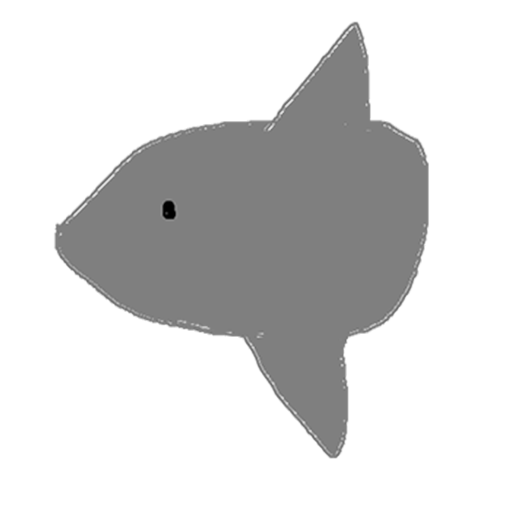
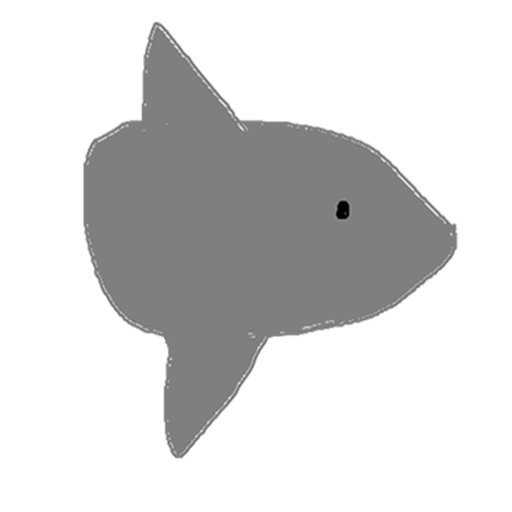
Support for passing start point and end point of parabolic motion as argument

diff --git a/core/src/main/java/com/bouncefish/entities/OrdinaryFish.java b/core/src/main/java/com/bouncefish/entities/OrdinaryFish.java
@@ -1,43 +1,67 @@
 package com.bouncefish.entities;
 
 import com.badlogic.gdx.Gdx;
-import com.badlogic.gdx.graphics.g2d.TextureRegion;
 import com.bouncefish.utils.GameConstants;
 
 public abstract class OrdinaryFish extends Creature{
-    protected static float leftStartX = 50F;
+    /*protected static float leftStartX = 50F;
     protected static float rightStartX = GameConstants.Game_Width - 50F;
-    protected static float startY = 0F;
+
     protected static float leftEndX = GameConstants.Game_Width/2 -100;
     protected static float rightEndX = GameConstants.Game_Width/2 + 100;
 
+     */
+    protected float start_X;
+    protected float end_X;
+    //parameters for parabolic motion; y = a*x^2 + b*x + c
+    protected float a;
+    protected float b;
+    protected static final float c = 0F;
     protected static float apexY = GameConstants.Screen_Height/6; // maximum height of the parabola
+
+    OrdinaryFish(float start_X, float end_X){
+        if(start_X < end_X){
+            this.movingLeft = false;
+        }else {
+            this.movingLeft = true;
+        }
+        this.start_X = start_X;
+        this.xPosition = start_X;
+        this.yPosition = c;
+        this.end_X = end_X;
+        b = 4 * (apexY - c) / (end_X - start_X);
+        a = -b / (2 * (end_X - start_X));
+    }
+    @Override
+    public float getStartX(){
+        return start_X;
+    }
+    @Override
+    public float getLeadingCoefficient(){
+        return a;
+    }
+    @Override
+    public float getLinearCoefficient(){
+        return b;
+    }
     @Override
     public void handleBouncedOn() { //ordinary fish all behave the same; so put this here
 
     }
     public static void leftToRightParabola(Creature creature){
-        parabolicMotion(creature,true);
+        parabolicMotion(creature);
     }
     public static void rightToLeftParabola(Creature creature){
-        //TODO: flip the texture.
-        parabolicMotion(creature,false);
+        parabolicMotion(creature);
     }
 
-    private static void parabolicMotion(Creature creature, boolean goRight){//ordinary fish all behave the same; so put this here
+    private static void parabolicMotion(Creature creature){
         float deltaTime = Gdx.graphics.getDeltaTime();
-        float start_X = goRight ? leftStartX : rightStartX;
-        float end_X = goRight ? leftEndX : rightEndX;
-
-        //y = a*x^2 + b*x + c
-        float c = startY;
-        float b = 4 * (apexY - startY) / (end_X - start_X);
-        float a = -b / (2 * (end_X - start_X));
 
         creature.xPosition += creature.xVelocity * deltaTime;
-        float dx = creature.xPosition - start_X;
+        float dx = creature.xPosition - creature.getStartX();
 
-        creature.yPosition = a * dx * dx + b * dx + c;
+        creature.yPosition = creature.getLeadingCoefficient() * dx * dx + creature.getLinearCoefficient() * dx + c;
     }
     //TODO: add methods to change the parameters of the parabolic motion?
 

diff --git a/core/src/main/java/com/bouncefish/entities/Shark.java b/core/src/main/java/com/bouncefish/entities/Shark.java
@@ -31,6 +31,7 @@ public class Shark extends Creature{
         this.movementSpeedMultiplier = 1;
         this.movementFunction = movementFunction;
         this.spawnTime = spawnTime;
+        this.movingLeft = movingLeft;
 
         setBounds();
     }
@@ -117,30 +118,6 @@ public class Shark extends Creature{
             setYVelocity(initialSpeed);
             setMovementFunction(Shark::attackMovement);
     }
-    /*public static void attackMovement(Creature creature){
-        creature.yPosition += creature.yVelocity * Gdx.graphics.getDeltaTime();
-        if(creature.yVelocity > 0){
-            if(creature.yPosition >= GameConstants.SHARK_JUMP_HEIGHT){
-                creature.yVelocity = -500;//TODO: make the transition smooth?
-            }
-        }else {
-            if(creature.yPosition <= GameConstants.WATER_LEVEL){
-                creature.setY(GameConstants.WATER_LEVEL);
-                ((Shark) creature).attacking = false; //the attack ends when the shark is back in water
-                ((Shark) creature).coolDown = true;
-                ((Shark) creature).attackCooldownCounter = GameConstants.SHARK_ATK_COOLDOWN;
-                creature.setBounds();//the shark is in the water(and cooling down)
-                if(creature.xVelocity<0){
-                    creature.setMovementFunction(Shark::leftToRight);
-                } else {
-                    creature.setMovementFunction(Shark::rightToLeft);
-                }
-
-            }
-        }
-    }
-
-     */
 
     public static void attackMovement(Creature creature) {
         float dt = Gdx.graphics.getDeltaTime();
@@ -162,7 +139,7 @@ public class Shark extends Creature{
             ((Shark) creature).attackCooldownCounter = GameConstants.SHARK_ATK_COOLDOWN;
 
             creature.setBounds();
-            if(creature.xVelocity > 0){
+            if(!creature.movingLeft){
                 creature.setXVelocity(Shark.defaultSpeed);
             }else{
                 creature.setXVelocity(-Shark.defaultSpeed);
@@ -174,13 +151,15 @@ public class Shark extends Creature{
 
     public static void swim(Creature creature){
         creature.xPosition += creature.xVelocity * creature.movementSpeedMultiplier * Gdx.graphics.getDeltaTime();
-        if(creature.xVelocity < 0){  //split into two cases so that the shark can move into the scene
+        if(creature.movingLeft){  //split into two cases so that the shark can move into the scene
             if(creature.xPosition < 0){
                 creature.xVelocity = -creature.xVelocity;
+                creature.movingLeft = false;
             }
         }else{
             if(creature.xPosition > GameConstants.Game_Width - creature.width){
                 creature.xVelocity = -creature.xVelocity;
+                creature.movingLeft = true;
             }
         }
     }

diff --git a/core/src/main/java/com/bouncefish/gameplay/WaveRegistry.java b/core/src/main/java/com/bouncefish/gameplay/WaveRegistry.java
@@ -65,9 +65,9 @@ public class WaveRegistry {
         // TODO: Make a helper tool and pass a json file instead?
 
         Wave wave1 = new Wave(14f);
-        wave1.add(new OceanSunfish(1f,RIGHT_SPAWN_X,OceanSunfish::OceanSunfishMovementRightToLeft));
-        wave1.add(new Mackerel(1f,true, OrdinaryFish::leftToRightParabola));
-        wave1.add(new Mackerel(1f,false, OrdinaryFish::rightToLeftParabola));
+        wave1.add(new OceanSunfish(1f,RIGHT_SPAWN_X,GameConstants.Screen_Height/2,true,OceanSunfish::OceanSunfishMovementRightToLeft));
+        wave1.add(new Mackerel(1f,GameConstants.Game_Width - 50F,GameConstants.Game_Width/2 -100, OrdinaryFish::leftToRightParabola));
+        wave1.add(new Mackerel(1f,50F,GameConstants.Game_Width/2 + 100, OrdinaryFish::rightToLeftParabola));
         wave1.add(new Crab(1f, LEFT_SPAWN_X, Crab::leftToRight));
         wave1.add(new Crab(2.5f, LEFT_SPAWN_X, Crab::leftToRight));
         wave1.add(new Crab(5f, LEFT_SPAWN_X, Crab::leftToRight));
@@ -93,12 +93,12 @@ public class WaveRegistry {
         easyWaves.add(wave2);
 
         Wave wave3 = new Wave(8f);
-        wave3.add(new Mackerel(1f,true, OrdinaryFish::leftToRightParabola));
-        wave3.add(new Mackerel(2f,false, OrdinaryFish::rightToLeftParabola));
-        wave3.add(new Mackerel(3f,true, OrdinaryFish::leftToRightParabola));
-        wave3.add(new Mackerel(4f,false, OrdinaryFish::rightToLeftParabola));
-        wave3.add(new Mackerel(5f,true, OrdinaryFish::leftToRightParabola));
-        wave3.add(new Mackerel(6f,false, OrdinaryFish::rightToLeftParabola));
+        //wave3.add(new Mackerel(1f,true, OrdinaryFish::leftToRightParabola));
+        //wave3.add(new Mackerel(2f,false, OrdinaryFish::rightToLeftParabola));
+        //wave3.add(new Mackerel(3f,true, OrdinaryFish::leftToRightParabola));
+        //wave3.add(new Mackerel(4f,false, OrdinaryFish::rightToLeftParabola));
+        //wave3.add(new Mackerel(5f,true, OrdinaryFish::leftToRightParabola));
+       //wave3.add(new Mackerel(6f,false, OrdinaryFish::rightToLeftParabola));
         wave3.add(new Crab(7f, LEFT_SPAWN_X, 0, 1.2f, Crab::leftToRight));
         easyWaves.add(wave3);
 

diff --git a/core/src/main/java/com/bouncefish/entities/OceanSunfish.java b/core/src/main/java/com/bouncefish/entities/OceanSunfish.java
@@ -13,37 +13,22 @@ public class OceanSunfish extends Creature {
     private int flipCounter = 100;//counter used to decide when to flip. Use delta time to make it consistent
     private static Animation<TextureRegion> oceanSunfishAnimationNormal;
     private static Animation<TextureRegion> oceanSunfishAnimationFlipped;
+    private static float sunfishSpeed = 3;
 
-    public OceanSunfish(float spawnTime, float spawnX, float spawnY, float speedMultiplier, Consumer<Creature> movementFunction) {
+    public OceanSunfish(float spawnTime, float spawnX, float spawnY, boolean movingLeft,Consumer<Creature> movementFunction) {
         creatureId = 3;
-        xVelocity = 0;
+        xVelocity = movingLeft? -sunfishSpeed : sunfishSpeed;
         yVelocity = 0;
         width = 260;
         height = 260;
-        movementSpeed = 1;
+        movementSpeed = sunfishSpeed;
 
         this.xPosition = spawnX;
         this.yPosition = spawnY;
-        this.movementSpeedMultiplier = speedMultiplier;
-        this.movementFunction = movementFunction;
-        this.spawnTime = spawnTime;
-
-        setBoundScale(0.95F,0.42F);
-        setBounds();
-    }
-    public OceanSunfish(float spawnTime, float spawnX, Consumer<Creature> movementFunction) {
-        creatureId = 3;
-        xVelocity = 0;
-        yVelocity = 0;
-        width = 260;
-        height = 260;
-        movementSpeed = 1;
-
-        this.xPosition = spawnX;
-        this.yPosition = GameConstants.Screen_Height/2;
         this.movementSpeedMultiplier = 1;
         this.movementFunction = movementFunction;
         this.spawnTime = spawnTime;
+        this.movingLeft = movingLeft;
 
         setBoundScale(1F,0.42F);
         boundScaleY = 0.42F;

diff --git a/core/src/main/java/com/bouncefish/Main.java b/core/src/main/java/com/bouncefish/Main.java
@@ -164,16 +164,12 @@ public class Main extends ApplicationAdapter {
 
             for (Creature creature:creatureList) {
                 TextureRegion currentFrame = creature.getAnimeFrame();
-                //if (creature.isRotated()){
-                if (false){ //optional feature that rotates the texture to face the direction of speed
-                    Matrix4 rotationMatrix = creature.getTextureRotationMatrix();
-                    _batch.setTransformMatrix(rotationMatrix);
+                if(!creature.isMovingLeft()){//assuming all creature textures are facing right
                     _batch.draw(currentFrame, creature.getX(), creature.getY(), creature.getWidth(), creature.getHeight());
-                    _batch.setTransformMatrix(new Matrix4());
-                    //TODO: should check whether the fish is going right or left and flip the texture if necessary
-                } else {
-                    _batch.draw(currentFrame, creature.getX(), creature.getY(), creature.getWidth(), creature.getHeight());
+                }else{// negative width flips horizontally
+                    _batch.draw(currentFrame, creature.getX() + creature.getWidth(), creature.getY(), -creature.getWidth(), creature.getHeight());
                 }
+
             }
             TextureRegion waterFrame = Water.getAnimeFrame();
             _batch.draw(waterFrame, 0, -50, Gdx.graphics.getWidth(), Gdx.graphics.getHeight());

diff --git a/core/src/main/java/com/bouncefish/entities/Creature.java b/core/src/main/java/com/bouncefish/entities/Creature.java
@@ -37,15 +37,11 @@ public abstract class Creature {
     protected float boundScaleY = 1F;
     protected float boundOffsetX = 0F;
     protected float boundOffsetY = 0F;
-    /*protected boolean movingLeft;
-    public void movingLeftToRIghtFlag(){
-        movingLeft = true;
-    }
-    public void movingRightToLeftFlag(){
-        movingLeft = false;
+    protected boolean movingLeft;
+    public boolean isMovingLeft(){
+        return movingLeft;
     }
 
-     */
     public float getX() {
         return xPosition;
     }
@@ -200,6 +196,16 @@ public abstract class Creature {
     public static boolean movingRight(Creature creature){
         return creature.xVelocity > 0;
     }
-    //
-
+    public float getLeadingCoefficient(){
+        System.out.println("No leading coefficient for this creature");
+        return 0;
+    }
+    public float getLinearCoefficient(){
+        System.out.println("No linear coefficient for this creature");
+        return 0;
+    }
+    public float getStartX(){
+        System.out.println("No start x for this creature");
+        return GameConstants.Game_Width/2;
+    }
 }

diff --git a/core/src/main/java/com/bouncefish/entities/Mackerel.java b/core/src/main/java/com/bouncefish/entities/Mackerel.java
@@ -8,16 +8,15 @@ import java.util.function.Consumer;
 
 public class Mackerel extends OrdinaryFish{
     private static Animation<TextureRegion> mackerelAnimation;
-    public Mackerel(float spawnTime,boolean goRight, Consumer<Creature> movementFunction) {
+    public Mackerel(float spawnTime, float startX, float endX, Consumer<Creature> movementFunction) {
+        super(startX,endX);
         creatureId = 4;
-        xVelocity = goRight ? 700 : -700;
+        xVelocity = movingLeft ? -700 : 700;
         yVelocity = 0;
         width = 130;
         height = 130;
         movementSpeed = 0;
 
-        this.xPosition = goRight ? leftStartX : rightStartX;
-        this.yPosition = startY;
         this.movementSpeedMultiplier = 1;
         this.movementFunction = movementFunction;
         this.spawnTime = spawnTime;

diff --git a/core/src/main/java/com/bouncefish/utils/GameConstants.java b/core/src/main/java/com/bouncefish/utils/GameConstants.java
@@ -30,7 +30,7 @@ public final class GameConstants {
     public static final float MAX_PARALYZED_TIME = 1F;
     public final static float SPAWN_STASIS_SECONDS = 3F;
     public final static float CLEANUP_FREQUENCY = 3F; // How often in seconds to deallocate creatures out of bounds
-    public static int WATER_LEVEL = 100; //the height of water level in pixel unit
+    public static int WATER_LEVEL = 50; //the height of water level in pixel unit
     public static int SHARK_DECTECTION_WIDTH = 60;//attacks if bouncefish fall into this range
     public static int SHARK_DECTECTION_HEIGHT = 1600;
     public static int SHARK_JUMP_HEIGHT = (int)(Screen_Height * 0.6);
